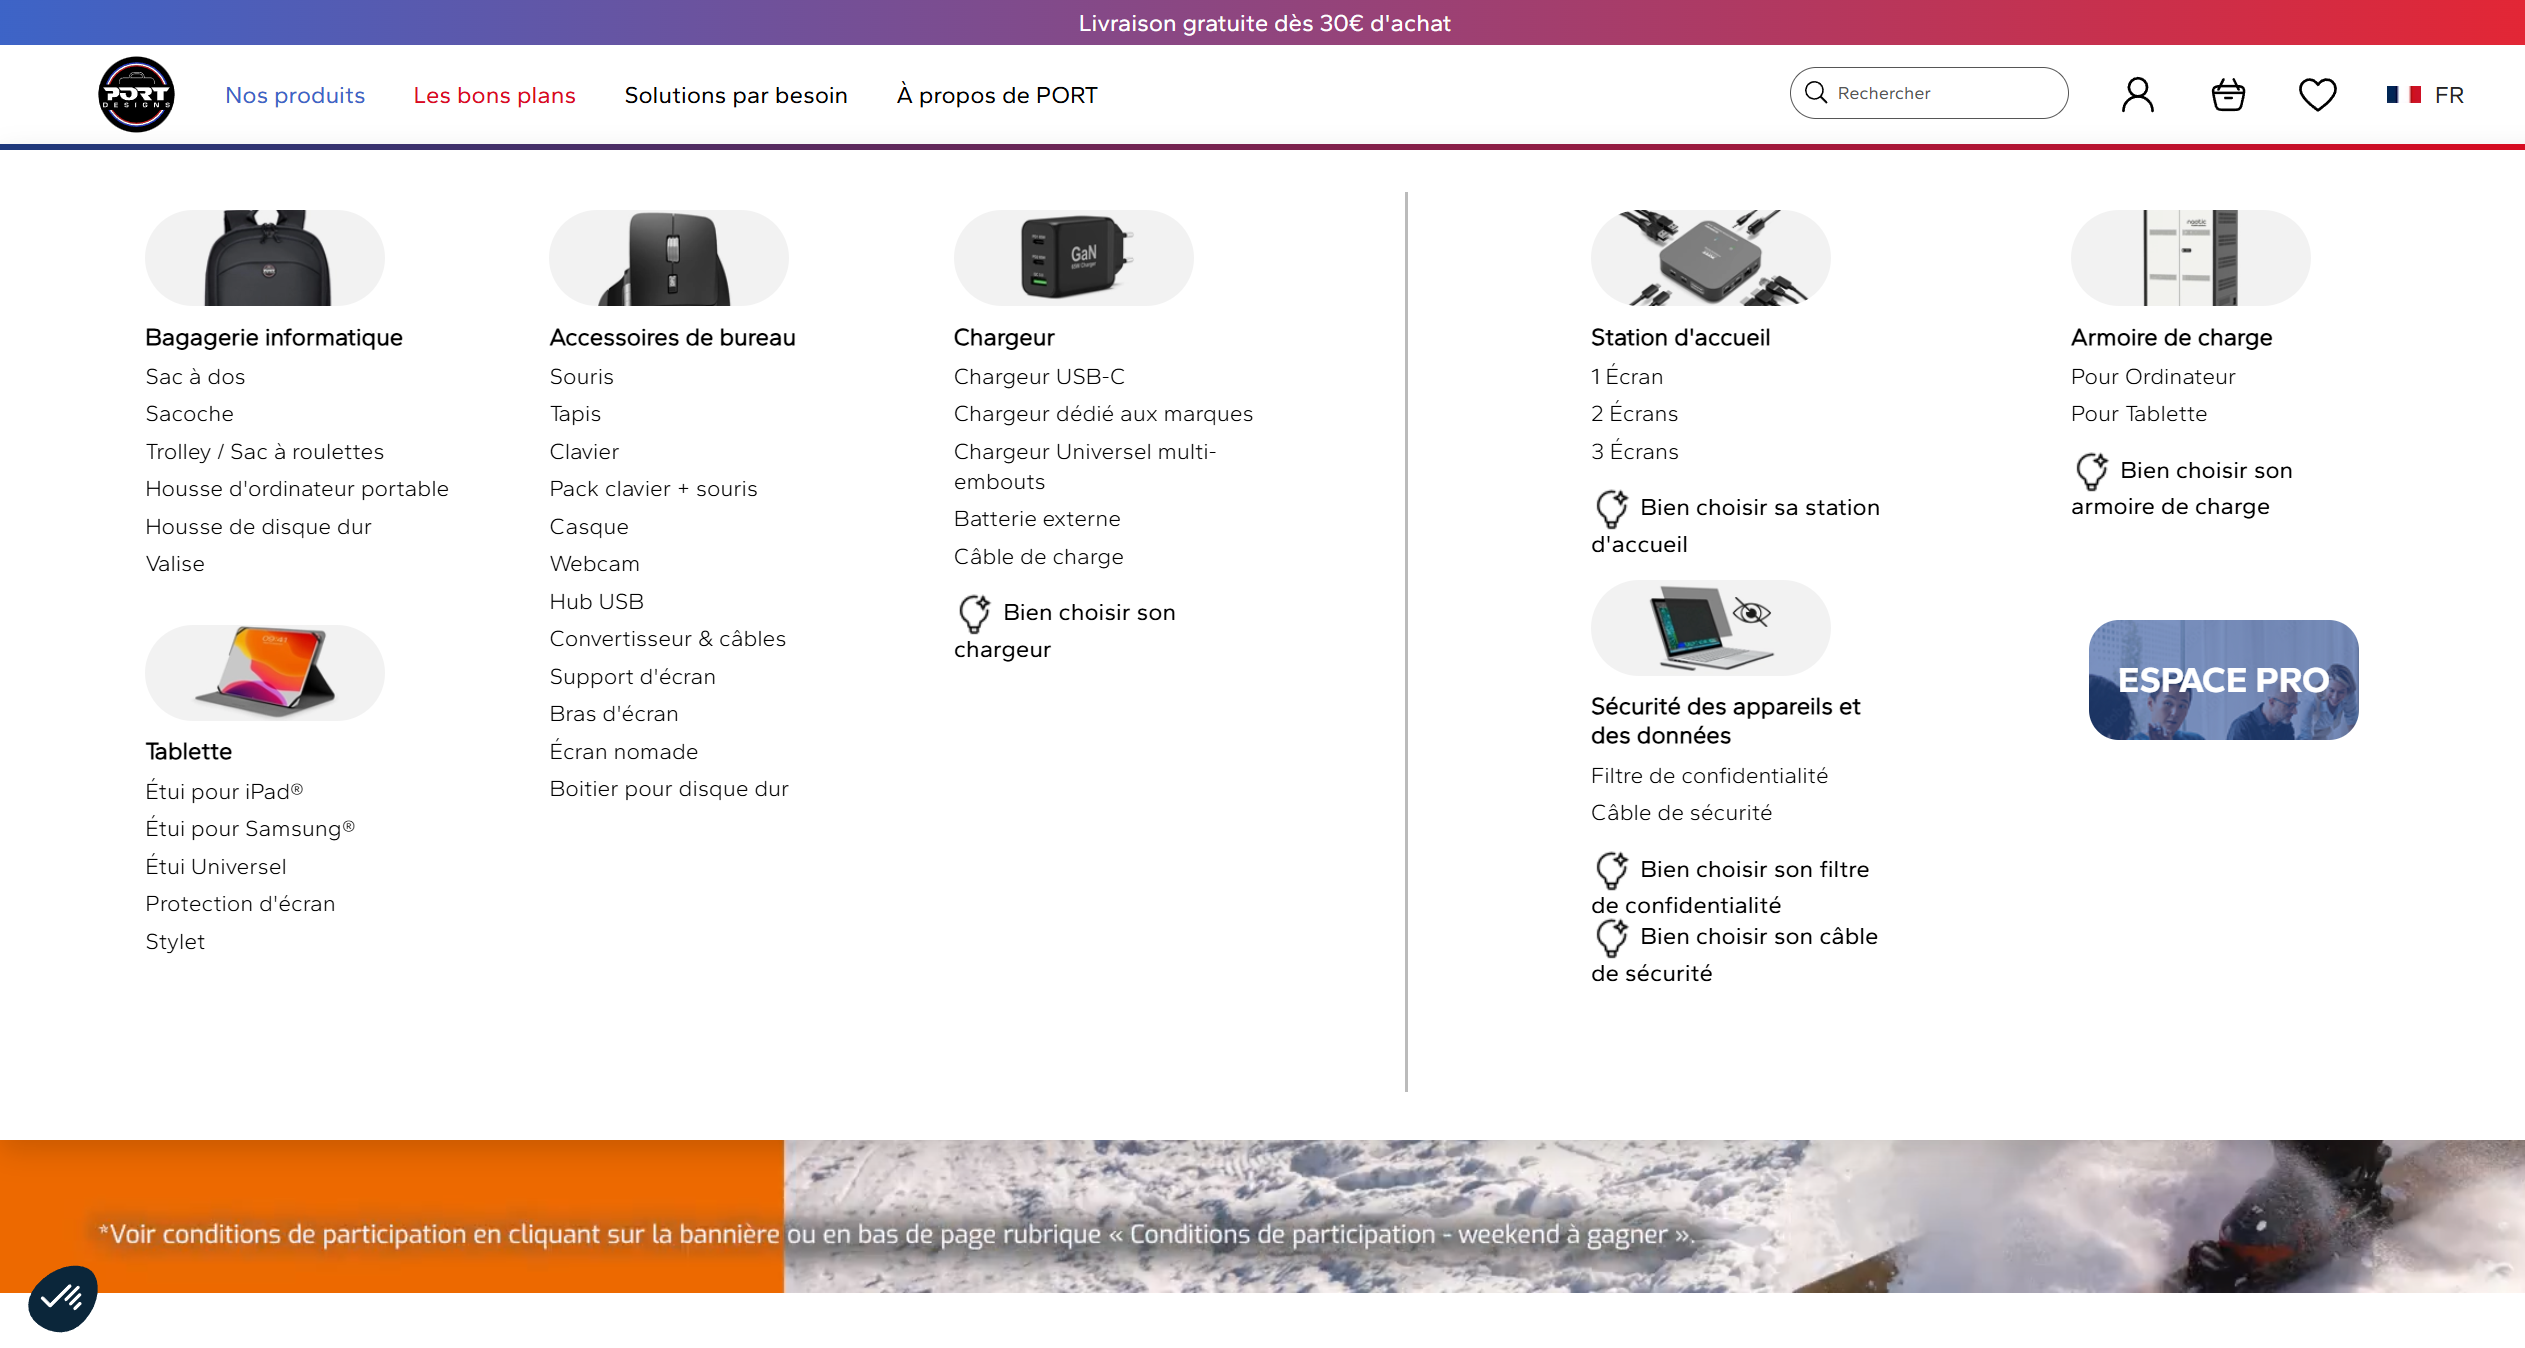
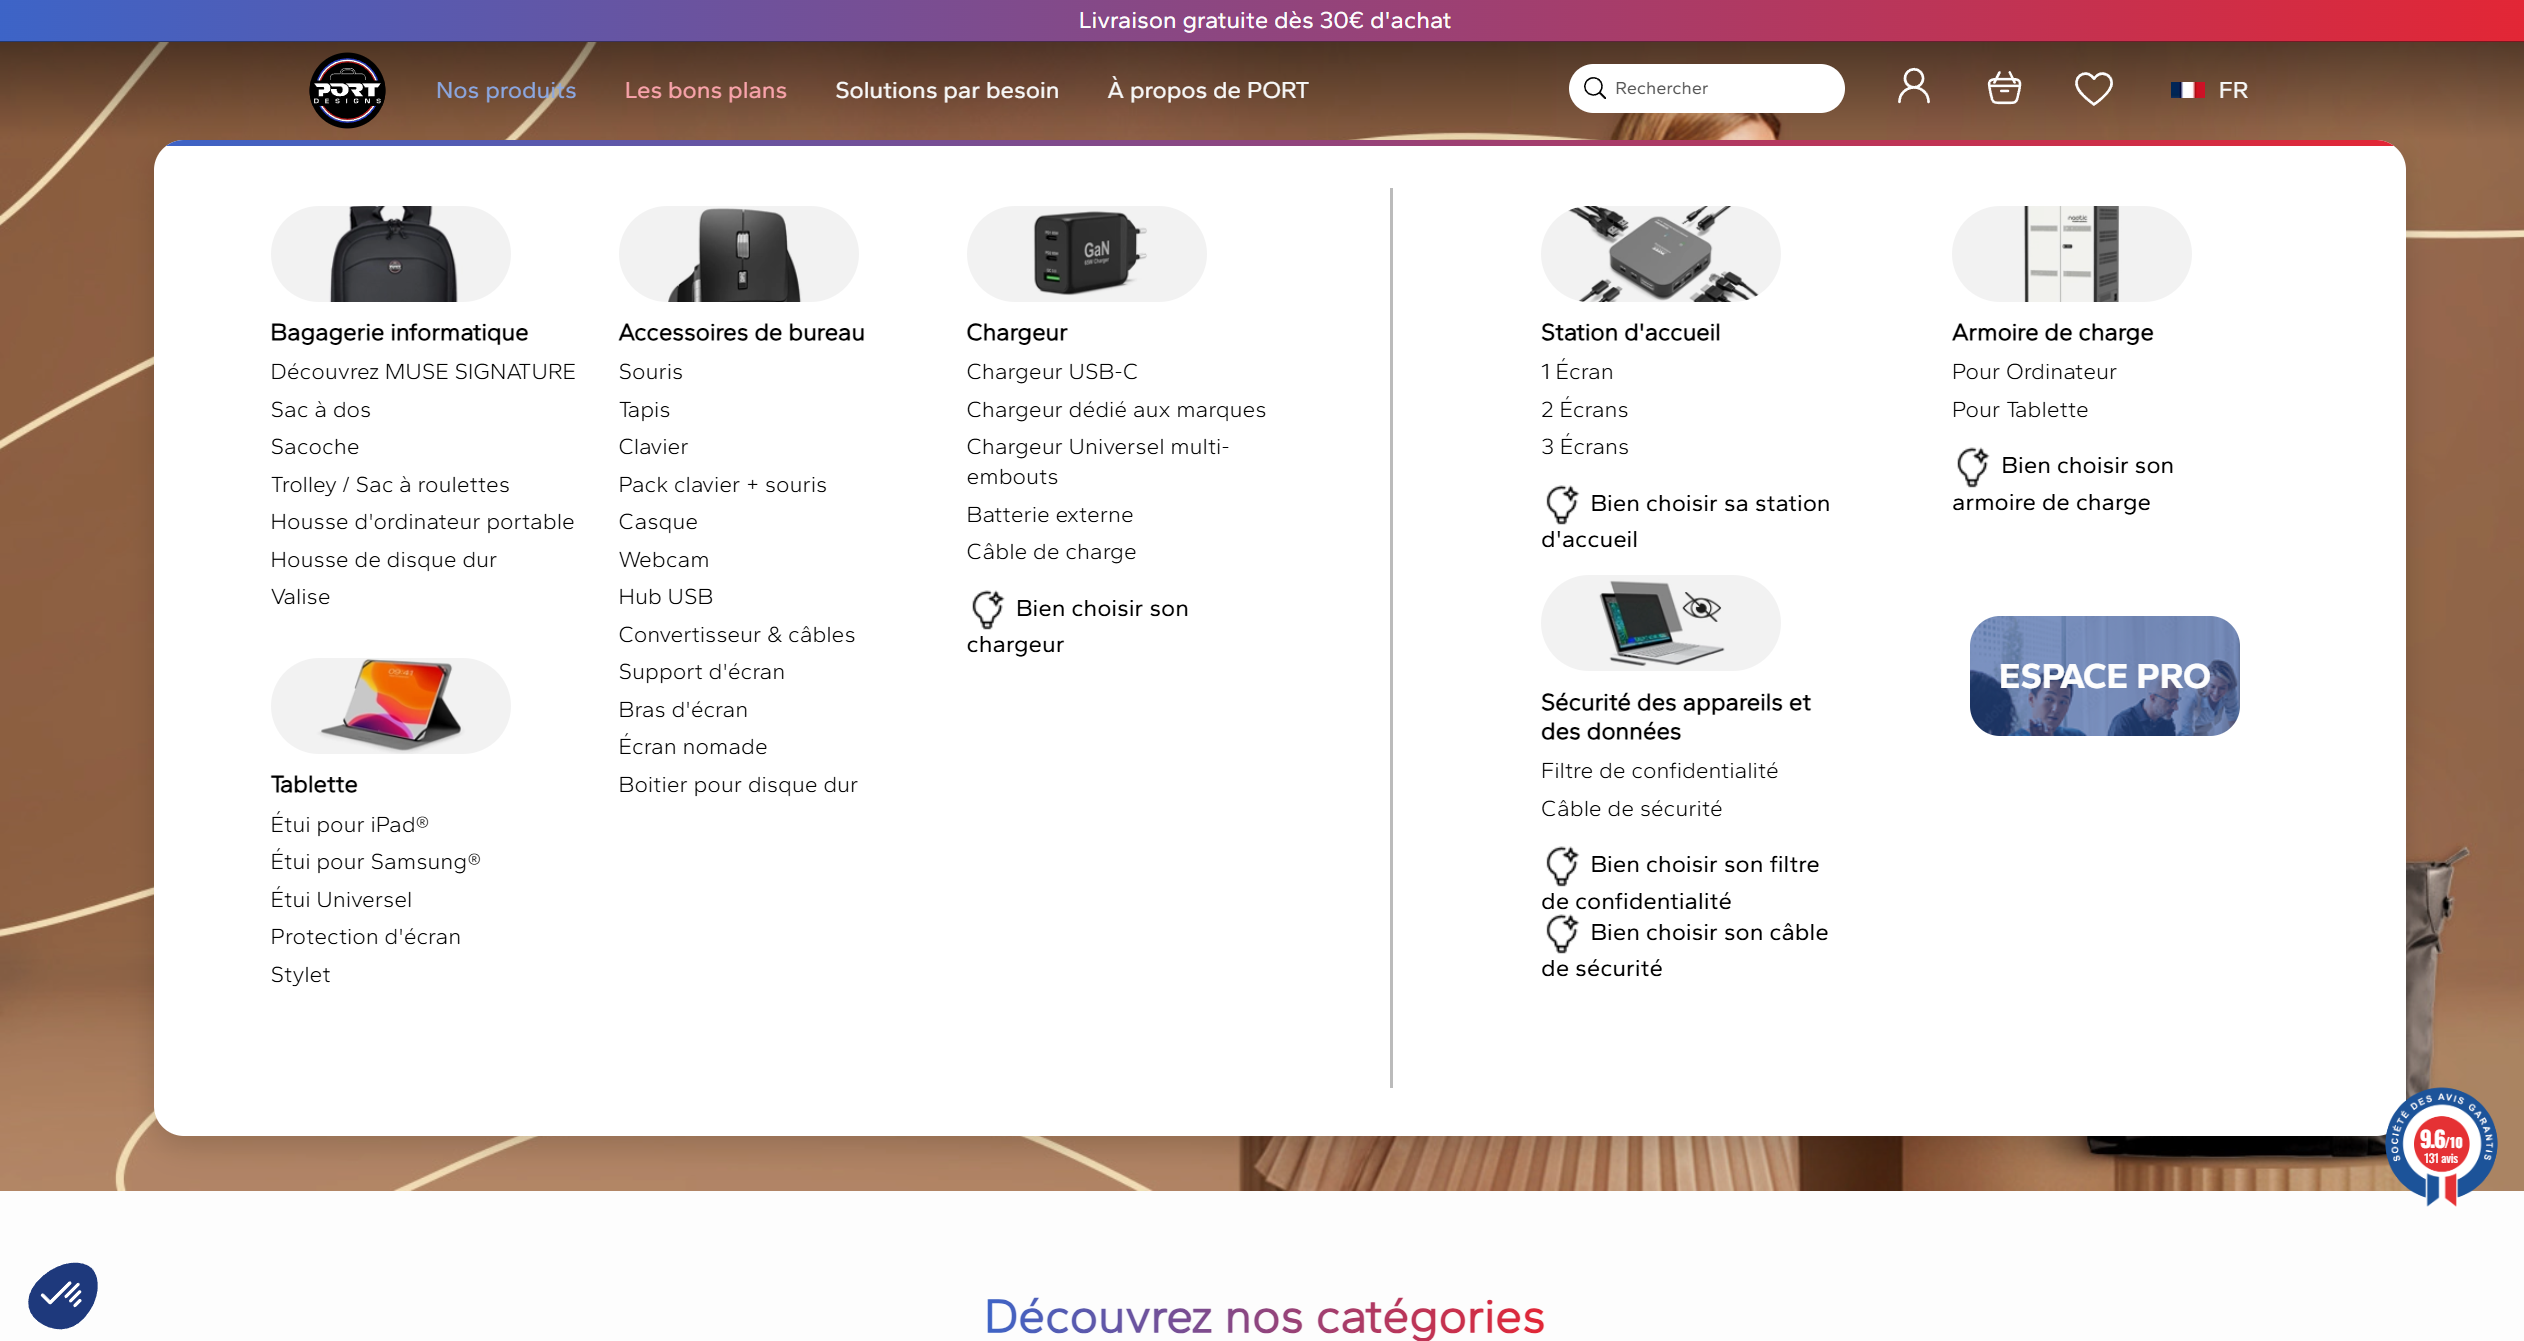
add: potential iframe; update: projects;

diff --git a/src/modules/ProjectsList/pages/ProjectDetail.jsx b/src/modules/ProjectsList/pages/ProjectDetail.jsx
@@ -78,6 +78,18 @@ function ProjectDetail() {
           </div>
         </div>
 
+        {/* ✅ AJOUTE CETTE SECTION SI TON PROJET A UNE DÉMO LIVE */}
+        {project.demoUrl && (
+          <div className="project-demo-section">
+            <h2>Démo en ligne</h2>
+            <iframe
+              src={project.demoUrl}
+              title={`${project.name} - Démo`}
+              className="project-demo-iframe"
+            />
+          </div>
+        )}
+
         <div className="project-detail-link">
           <a
             href={project.href}

diff --git a/src/modules/ProjectsList/pages/ProjectDetail.css b/src/modules/ProjectsList/pages/ProjectDetail.css
@@ -43,6 +43,7 @@
   width: 100%;
   height: 400px;
   object-fit: cover;
+  object-position: top;
   display: block;
 }
 

diff --git a/README.md b/README.md
@@ -5,8 +5,7 @@ This template provides a minimal setup to get React working in Vite with HMR and
 Currently, two official plugins are available:
 
 - [@vitejs/plugin-react](https://github.com/vitejs/vite-plugin-react/blob/main/packages/plugin-react) uses [Babel](https://babeljs.io/) (or [oxc](https://oxc.rs) when used in [rolldown-vite](https://vite.dev/guide/rolldown)) for Fast Refresh
-- [@vitejs/plugin-react-swc](https://github.com/vitejs/vite-plugin-react/blob/main/packages/plugin-react-swc) uses [SWC](https://swc.rs/) for Fast Refresh
-
+- [@vitejs/plugin-react-swc](https://github.com/vitejs/vite-plugin-react/blob/main/packages/plugin-react-swc) uses [SWC](https://swc.rs
 ## React Compiler
 
 The React Compiler is currently not compatible with SWC. See [this issue](https://github.com/vitejs/vite-plugin-react/issues/428) for tracking the progress.
